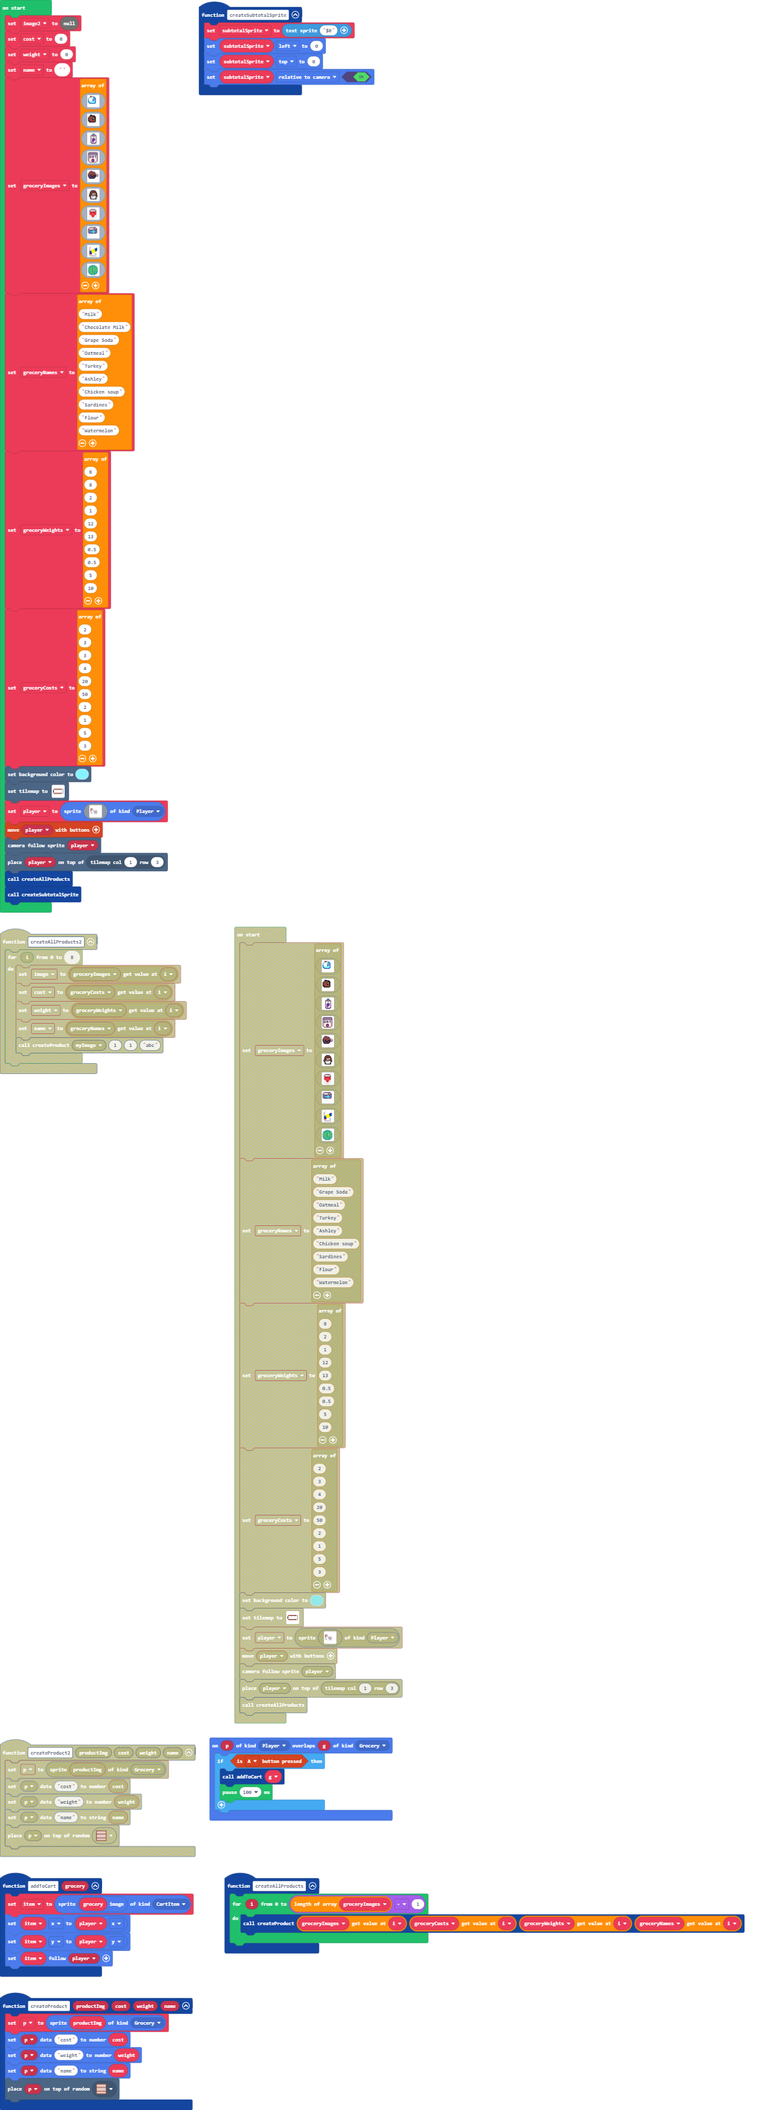
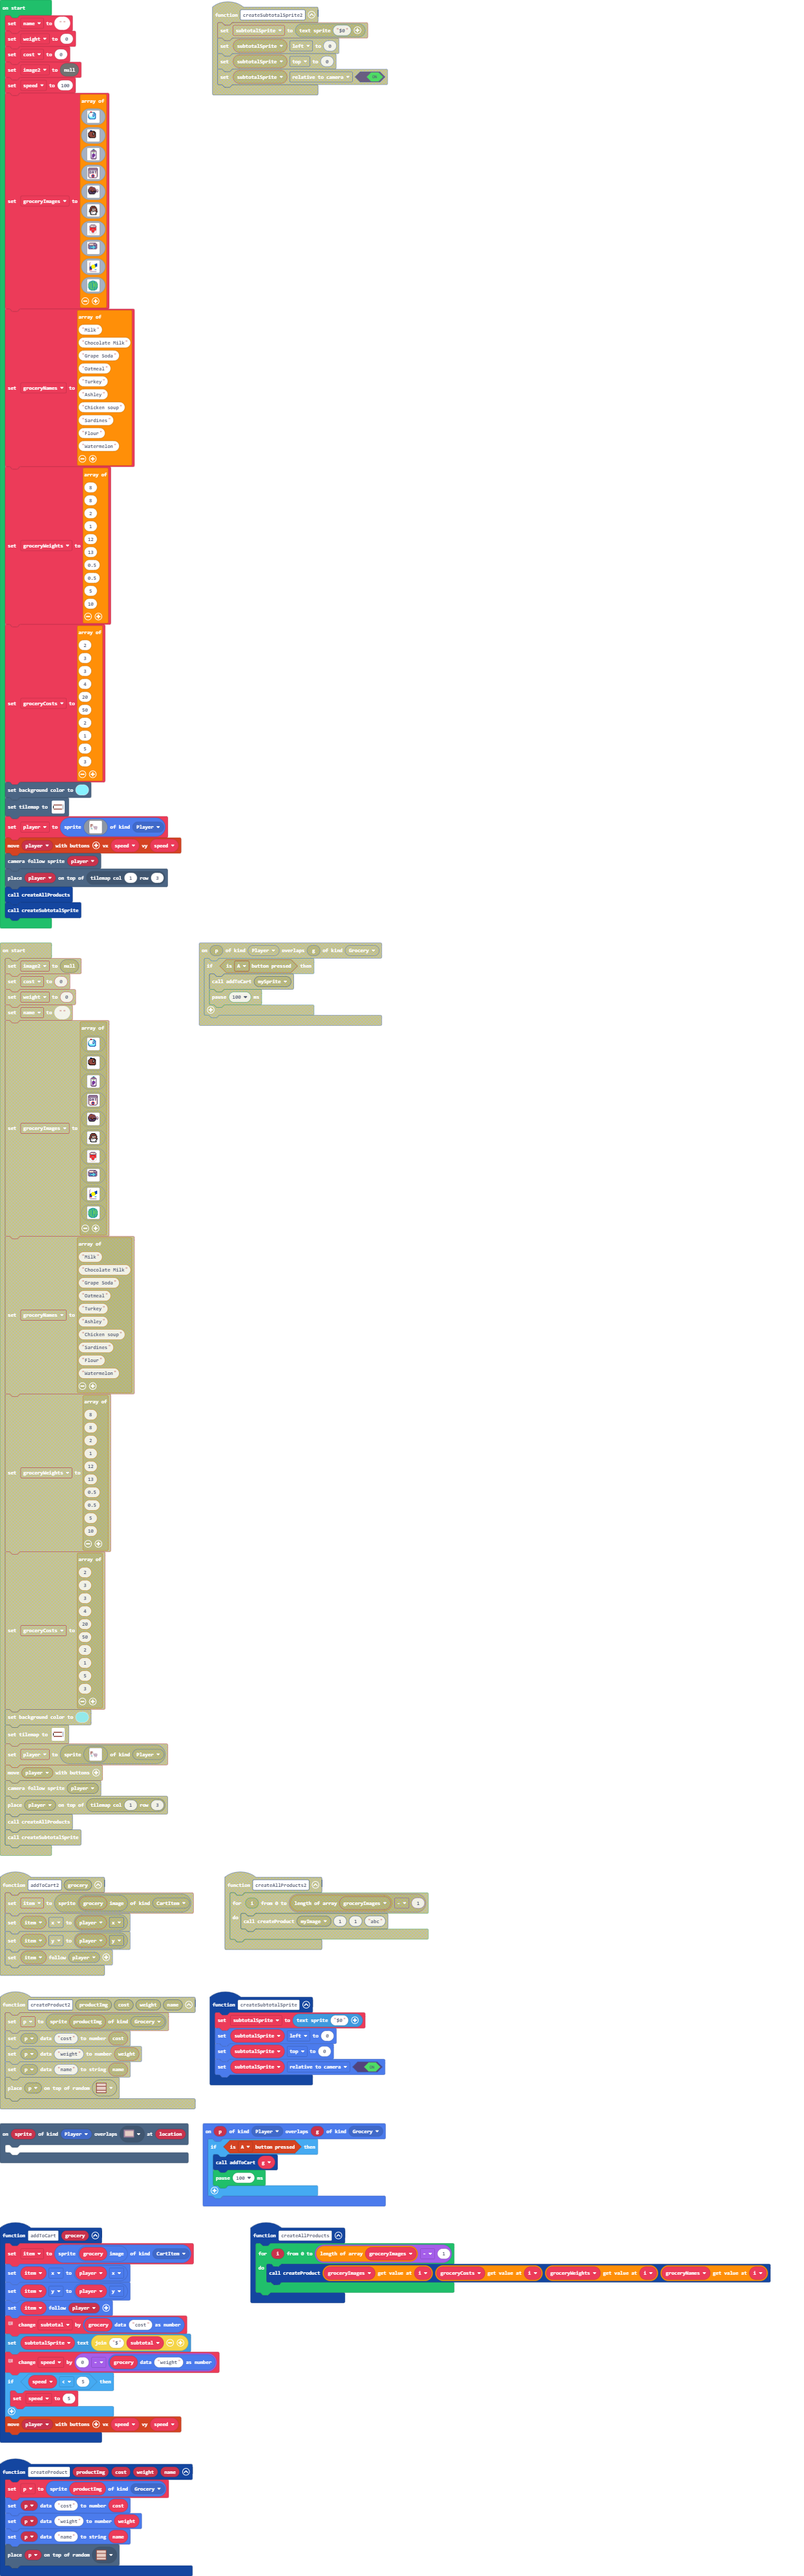
Update main.blocks, main.ts

diff --git a/main.ts b/main.ts
@@ -8,6 +8,19 @@ function createSubtotalSprite () {
     subtotalSprite.top = 0
     subtotalSprite.setFlag(SpriteFlag.RelativeToCamera, true)
 }
+sprites.onOverlap(SpriteKind.Grocery, SpriteKind.Grocery, function(sprite: Sprite, otherSprite: Sprite) {
+    tiles.placeOnRandomTile(sprite, myTiles.tile1)
+})
+scene.onOverlapTile(SpriteKind.Player, myTiles.tile10, function (sprite, location) {
+	let display = "SUBTOTAL: $" + subtotal
+
+    let cartItems = sprites.allOfKind(SpriteKind.CartItem)
+    for (let c of cartItems){
+        display += "\n" + sprites.readDataString(c, "name") + ": $" + sprites.readDataNumber(c, "cost")
+    }
+    game.showLongText(display, DialogLayout.Center)
+    game.over(true)
+})
 sprites.onOverlap(SpriteKind.Player, SpriteKind.Grocery, function (p, g) {
     if (controller.A.isPressed()) {
         addToCart(g)
@@ -19,15 +32,15 @@ function addToCart (grocery: Sprite) {
     item.x = player.x
     item.y = player.y
     item.follow(player)
-
-    //update subtotal
+    //update item info
+    sprites.setDataNumber(item, "cost", sprites.readDataNumber(grocery, "cost"))
+    sprites.setDataString(item, "name", sprites.readDataString(grocery, "name"))
+    // update subtotal
     subtotal += sprites.readDataNumber(grocery, "cost")
     subtotalSprite.setText("$" + subtotal)
-
-    //update speed
-    speed -= sprites.readDataNumber(grocery, "weight")
-    
-    if (speed < 5){
+    // update speed
+    speed += 0 - sprites.readDataNumber(grocery, "weight")
+    if (speed < 5) {
         speed = 5
     }
     controller.moveSprite(player, speed, speed)
@@ -44,9 +57,8 @@ function createAllProducts () {
         createProduct(groceryImages[i], groceryCosts[i], groceryWeights[i], groceryNames[i])
     }
 }
-let speed = 100
-let subtotal = 0
 let p: Sprite = null
+let subtotal = 0
 let item: Sprite = null
 let subtotalSprite: TextSprite = null
 let player: Sprite = null
@@ -54,10 +66,12 @@ let groceryCosts: number[] = []
 let groceryWeights: number[] = []
 let groceryNames: string[] = []
 let groceryImages: Image[] = []
-let image2 = null
-let cost = 0
-let weight = 0
+let speed = 0
 let name = ""
+let weight = 0
+let cost = 0
+let image2 = null
+speed = 100
 groceryImages = [
 img`
     . . . 2 2 2 . . . . . . . . . . 
@@ -301,3 +315,4 @@ scene.cameraFollowSprite(player)
 tiles.placeOnTile(player, tiles.getTileLocation(1, 3))
 createAllProducts()
 createSubtotalSprite()
+info.startCountdown(30)
